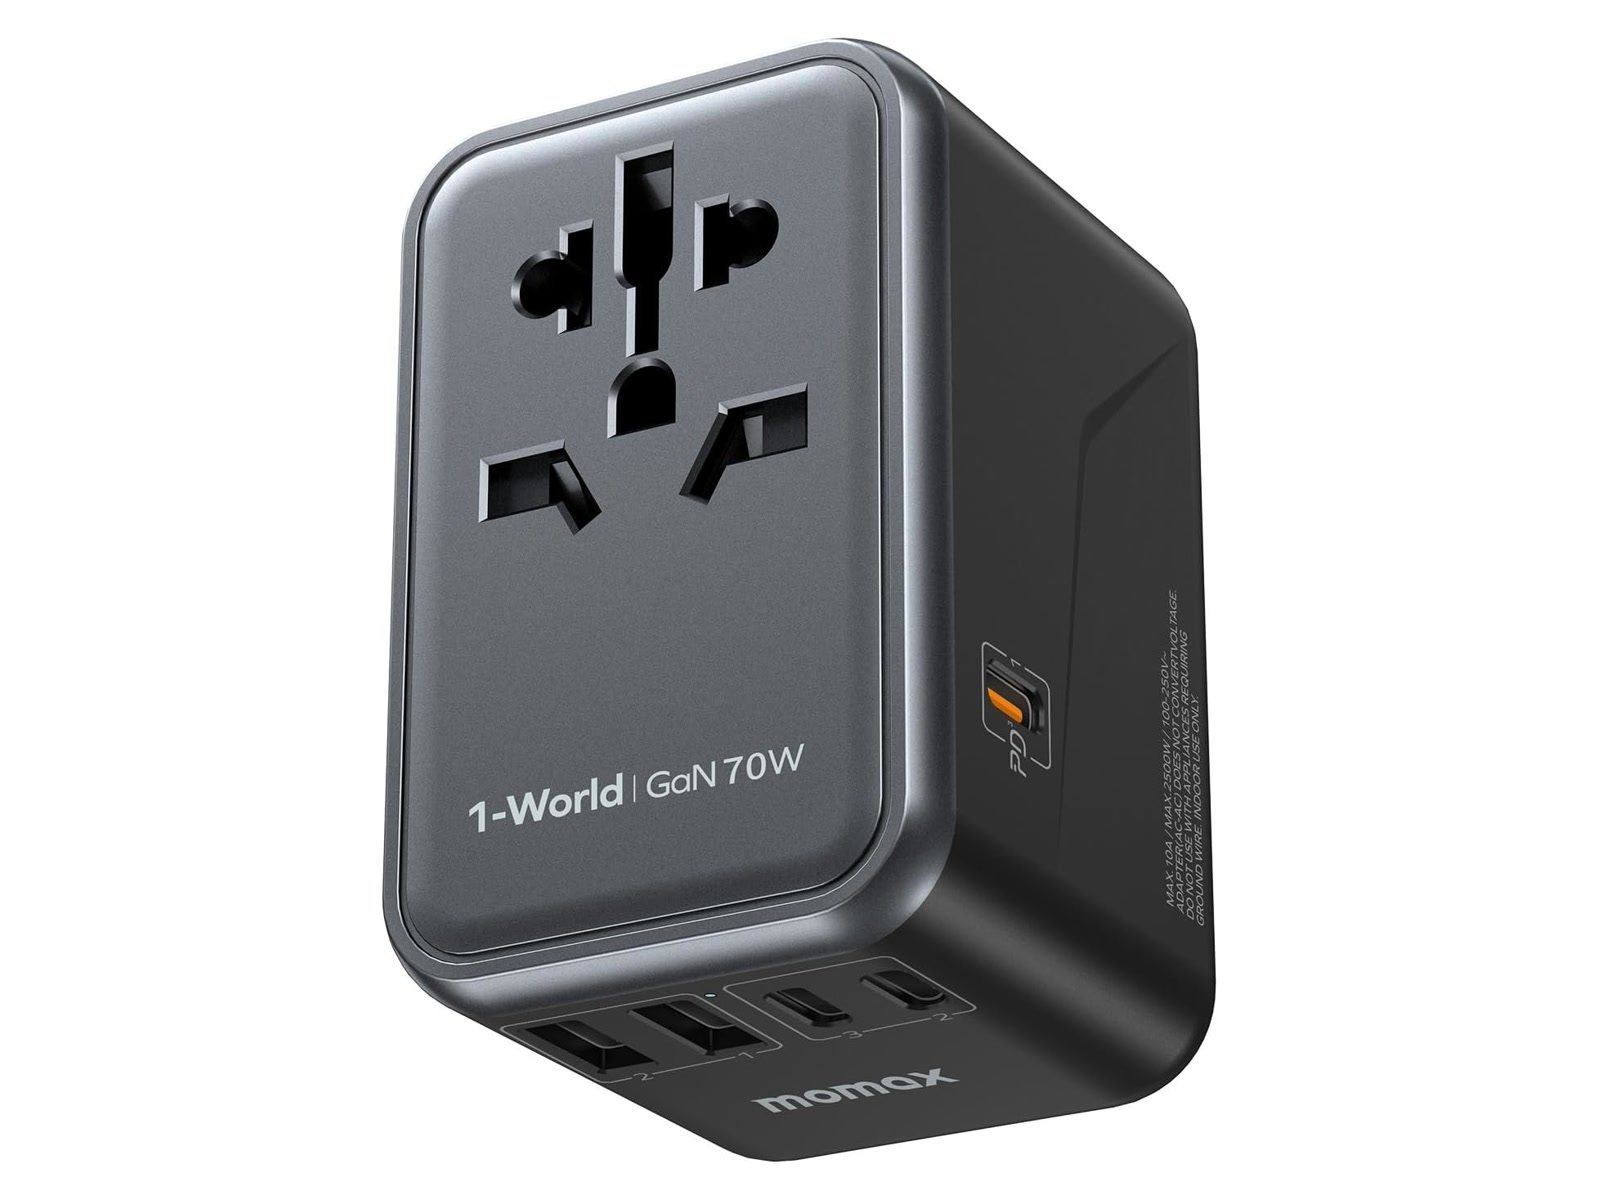
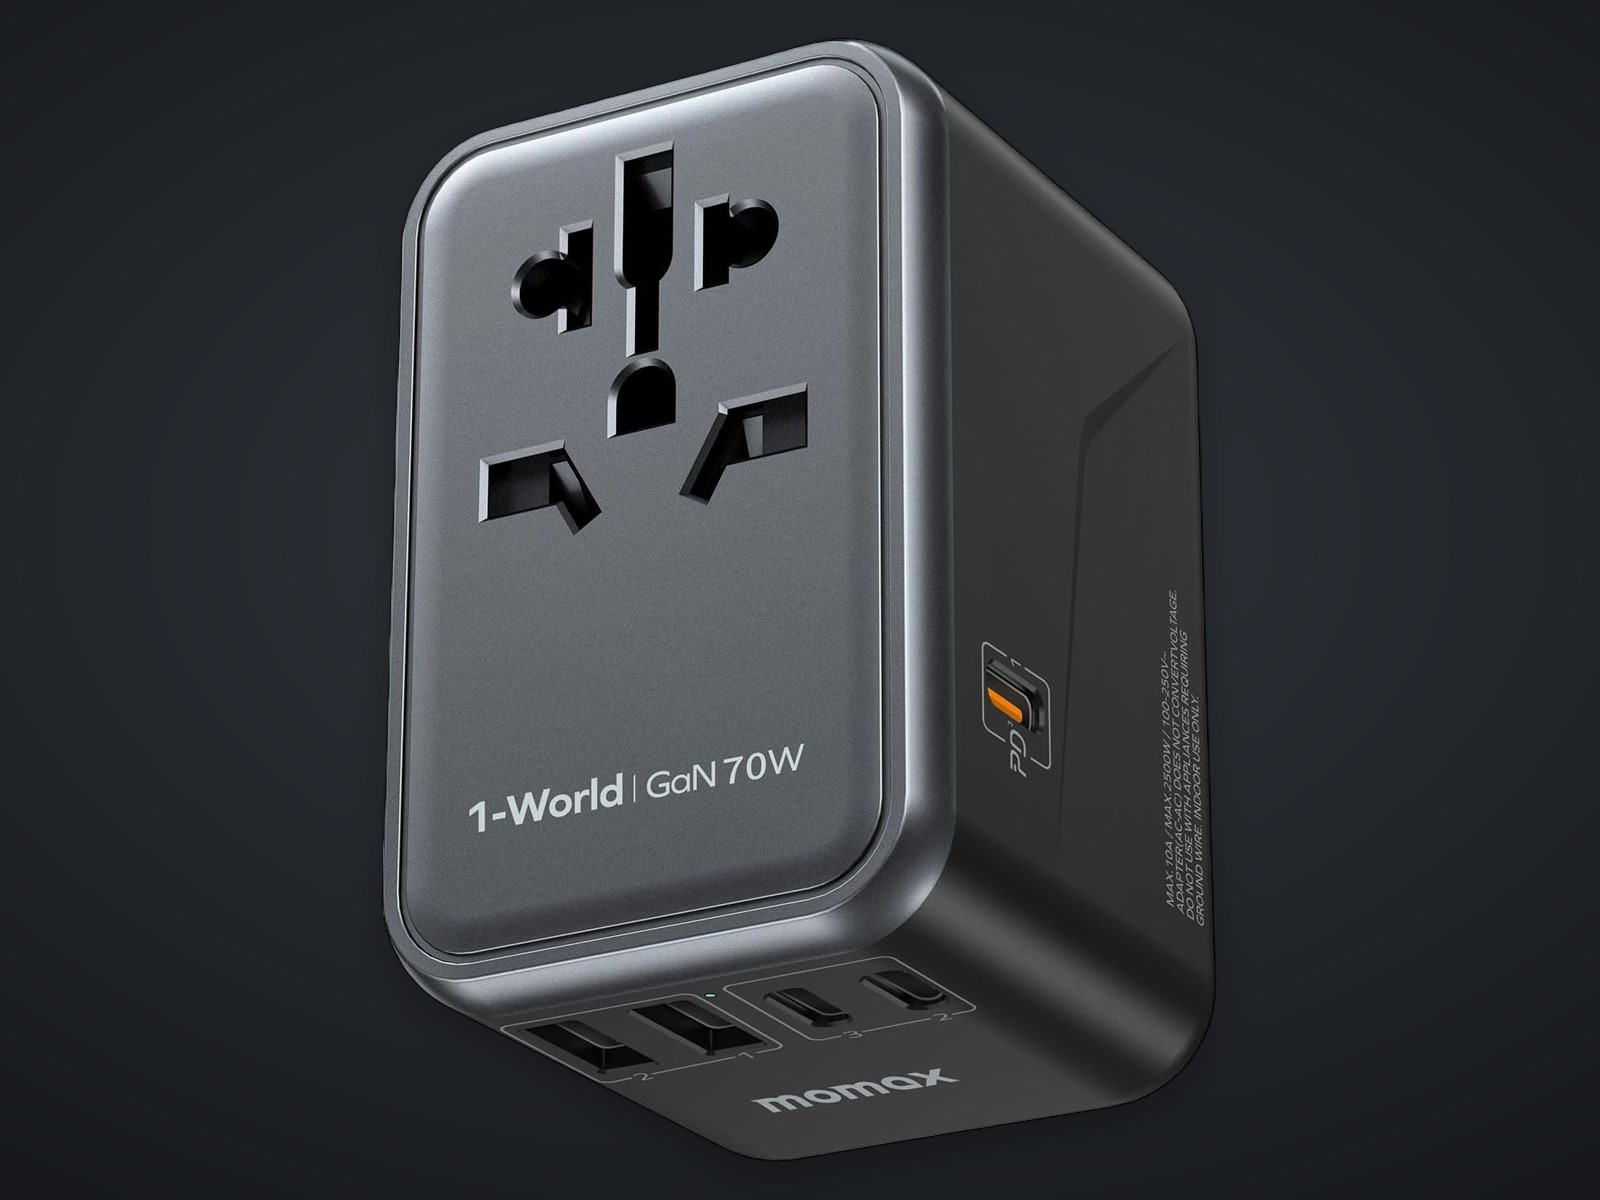
Sit Amazon pick photos on the original charcoal studio plate.
Cargo Bay looked split: the nine original dropship SKUs were shot on a dark grey sweep, while the twelve later amazonPick heroes kept Amazon's white listing cutout. Matte those picks and composite them onto the same charcoal plate, and use the raised studio well behind product images.

diff --git a/src/routes/checkout.tsx b/src/routes/checkout.tsx
@@ -166,7 +166,7 @@ function CheckoutPage() {
                   <img
                     src={product.image}
                     alt=""
-                    className="size-16 rounded-lg object-cover outline outline-1 -outline-offset-1 outline-ink/10"
+                    className="size-16 rounded-lg bg-raised object-cover outline outline-1 -outline-offset-1 outline-ink/10"
                   />
                   <div className="min-w-0 flex-1">
                     <p className="truncate font-medium">{product.name}</p>

diff --git a/src/routes/ask-al.tsx b/src/routes/ask-al.tsx
@@ -333,7 +333,7 @@ function CatalogHit({ product }: { product: Product }) {
       <img
         src={product.image}
         alt=""
-        className="size-16 rounded-lg object-cover outline outline-1 -outline-offset-1 outline-ink/10"
+        className="size-16 rounded-lg bg-raised object-cover outline outline-1 -outline-offset-1 outline-ink/10"
       />
       <span className="min-w-0 py-1">
         <span className="block truncate font-display text-sm font-medium">{product.name}</span>

diff --git a/src/components/cart-sheet.tsx b/src/components/cart-sheet.tsx
@@ -65,7 +65,7 @@ export function CartSheet({
                         to="/shop/$slug"
                         params={{ slug: product.slug }}
                         onClick={() => onOpenChange(false)}
-                        className="size-20 shrink-0 overflow-hidden rounded-lg bg-cream"
+                        className="size-20 shrink-0 overflow-hidden rounded-lg bg-raised"
                       >
                         <img
                           src={product.image}

diff --git a/src/routes/shop/$slug.tsx b/src/routes/shop/$slug.tsx
@@ -68,7 +68,7 @@ function ProductPage() {
             <img
               src={product.image}
               alt={`${product.name} — ${product.tagline}`}
-              className="aspect-[4/3] w-full rounded-xl object-cover outline outline-1 -outline-offset-1 outline-ink/10"
+              className="aspect-[4/3] w-full rounded-xl bg-raised object-cover outline outline-1 -outline-offset-1 outline-ink/10"
             />
           </div>
         </div>

diff --git a/src/components/product-card.tsx b/src/components/product-card.tsx
@@ -20,7 +20,7 @@ export function ProductCard({
         size === "lg" && "lg:row-span-2",
       )}
     >
-      <div className="relative overflow-hidden rounded-xl bg-paper">
+      <div className="relative overflow-hidden rounded-xl bg-raised">
         <img
           src={product.image}
           alt={`${product.name} — ${product.tagline}`}

diff --git a/scripts/composite-studio-bg.py b/scripts/composite-studio-bg.py
@@ -1,0 +1,91 @@
+#!/usr/bin/env python3
+"""Composite Amazon listing photos onto the hangar charcoal studio plate.
+
+Original dropship SKUs were shot on a dark grey sweep. Later amazonPick
+heroes kept Amazon's white cutout. This script mattes the subject (rembg)
+and sits it on a charcoal plate sampled from the original cargo photos.
+"""
+
+from __future__ import annotations
+
+from pathlib import Path
+
+import numpy as np
+from PIL import Image, ImageFilter
+from rembg import new_session, remove
+
+ROOT = Path(__file__).resolve().parents[1]
+PRODUCTS = ROOT / "public" / "products"
+
+AMAZON_PICKS = [
+    "flightbrick-100.jpg",
+    "runway-riser.jpg",
+    "cabin-cursor.jpg",
+    "twin-lead-240.jpg",
+    "second-window-16.jpg",
+    "call-latch.jpg",
+    "worldbrick-70.jpg",
+    "twinview-dock.jpg",
+    "softdeck-mini.jpg",
+    "spotcue.jpg",
+    "fieldmat.jpg",
+    "magdeck-10.jpg",
+]
+
+# Sampled from original dropship corners / mid-sweep (pulse-one, arc-gan, drift-75).
+STUDIO_INNER = np.array([48.0, 52.0, 58.0], dtype=np.float32)
+STUDIO_OUTER = np.array([22.0, 24.0, 28.0], dtype=np.float32)
+
+
+def studio_plate(height: int, width: int) -> np.ndarray:
+    ys = np.linspace(-1.0, 1.0, height, dtype=np.float32)[:, None]
+    xs = np.linspace(-1.0, 1.0, width, dtype=np.float32)[None, :]
+    dist = np.sqrt(((ys + 0.12) * 0.92) ** 2 + (xs * 0.78) ** 2)
+    t = np.clip((dist - 0.15) / 1.15, 0.0, 1.0)[:, :, None]
+    return STUDIO_INNER * (1.0 - t) + STUDIO_OUTER * t
+
+
+def contact_shadow(alpha: np.ndarray) -> np.ndarray:
+    mask = Image.fromarray((np.clip(alpha, 0, 1) * 255).astype(np.uint8), mode="L")
+    shadow = mask.filter(ImageFilter.GaussianBlur(radius=18))
+    arr = np.asarray(shadow, dtype=np.float32) / 255.0
+    shifted = np.zeros_like(arr)
+    shift = 14
+    shifted[shift:] = arr[:-shift]
+    return np.clip(shifted * 0.28, 0.0, 1.0)
+
+
+def unpremultiply_white(rgb: np.ndarray, alpha: np.ndarray) -> np.ndarray:
+    """Recover subject color assuming the listing was shot on white."""
+    a = np.clip(alpha, 0.0, 1.0)[..., None]
+    safe = np.maximum(a, 1e-4)
+    foreground = (rgb - 255.0 * (1.0 - a)) / safe
+    return np.clip(np.where(a > 0.04, foreground, rgb), 0.0, 255.0)
+
+
+def composite(path: Path, session) -> Image.Image:
+    source = Image.open(path).convert("RGBA")
+    cutout = remove(source, session=session)
+    rgba = np.asarray(cutout.convert("RGBA"), dtype=np.float32)
+    alpha = np.clip(rgba[:, :, 3] / 255.0, 0.0, 1.0)
+    subject = unpremultiply_white(rgba[:, :, :3], alpha)
+    plate = studio_plate(*rgba.shape[:2])
+    shadow = contact_shadow(alpha)
+    plate = plate * (1.0 - shadow[..., None])
+    out = subject * alpha[..., None] + plate * (1.0 - alpha[..., None])
+    return Image.fromarray(np.clip(out, 0, 255).astype(np.uint8), mode="RGB")
+
+
+def main() -> None:
+    session = new_session()
+    for name in AMAZON_PICKS:
+        src = PRODUCTS / name
+        if not src.exists():
+            raise SystemExit(f"missing {src}")
+        print(f"compositing {name}", flush=True)
+        image = composite(src, session)
+        image.save(src, format="JPEG", quality=90, optimize=True, subsampling=1)
+
+
+if __name__ == "__main__":
+    main()
